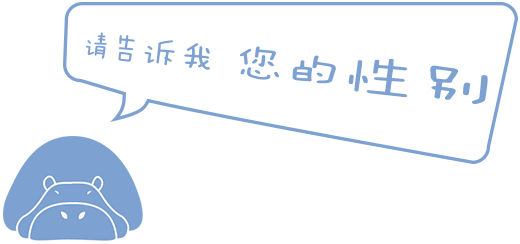
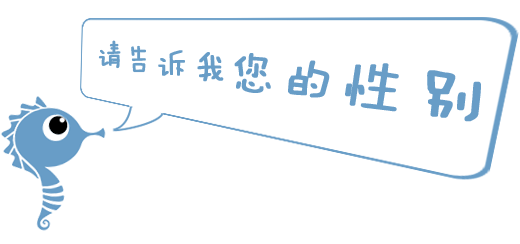
lcw
1、个性化定制 河马图标改为海马
2、个性化定制没有定制时改为自动跳转至定制页
3、vip挂号字体变大
4、报告查询保存密码
5、修复新版体检预约切换城市请求数据异常bug
6、首页个性化定制入口图片改为动态获取

Changed region(s): [[0.0, 0.0, 1.0, 1.0], [0.6769, 0.6311, 0.8, 0.6885]]

diff --git a/TiJian/TiJian/ViewControllers/HomeViewController.m b/TiJian/TiJian/ViewControllers/HomeViewController.m
@@ -50,6 +50,7 @@
     
     NSDictionary *_needChangeLocationDic;//需要更改的用户定位信息
     
+    UIImageView *_bannerCusImageView;//顶部个性化定制img view
 }
 
 @property(nonatomic,retain)UIView *healthView;//背景view
@@ -117,6 +118,9 @@
     //定位相关
     [self creatNavcLeftLabel];
     [self getLocalLocation];
+    
+    //获取动态banner图片
+    [self netWorkForHomeBanner];
     
 }
 
@@ -382,6 +386,28 @@
 }
 
 #pragma mark - 网络请求
+
+/**
+ *  获取首页banner信息
+ */
+- (void)netWorkForHomeBanner
+{
+    NSString *api = Get_cus_img;
+    
+    __weak typeof(self)weakSelf = self;
+    [[YJYRequstManager shareInstance]requestWithMethod:YJYRequstMethodGet api:api parameters:nil constructingBodyBlock:nil completion:^(NSDictionary *result) {
+        NSLog(@"success result %@",result);
+        
+        NSString *img_url = result[@"img_url"];
+        [LTools setObject:img_url forKey:HomePage_cus_img];//缓存imageurl
+        [_bannerCusImageView l_setImageWithURL:[NSURL URLWithString:img_url] placeholderImage:[weakSelf cacheBannerImage]];
+        
+    } failBlock:^(NSDictionary *result) {
+        
+        NSLog(@"fail result %@",result);
+        
+    }];
+}
 
 /**
  *  获取活动列表
@@ -812,25 +838,54 @@
 //    bgScroll.contentSize = CGSizeMake(DEVICE_WIDTH, view_health.bottom + 15);
 //}
 
+/**
+ *  获取默认的首页个性化定制banner
+ *
+ *  @return
+ */
+- (UIImage *)cacheBannerImage
+{
+    NSString *imgUrl = [LTools objectForKey:HomePage_cus_img];
+    UIImage *cacheImage;//
+    SDWebImageManager *manager = [SDWebImageManager sharedManager];
+    //存在换成图片
+    if ([manager cachedImageExistsForURL:[NSURL URLWithString:imgUrl]]) {
+        
+        NSString *key = [manager cacheKeyForURL:[NSURL URLWithString:imgUrl]];
+        cacheImage = [[SDImageCache sharedImageCache]imageFromDiskCacheForKey:key];
+    }else
+    {
+        cacheImage = [UIImage imageNamed:@"homepage_banner"];
+    }
+    return cacheImage;
+}
+
 - (void)prepareViewsVersionThree
 {
     UIView *bgScroll = [[UIView alloc]initWithFrame:CGRectMake(0, 0, DEVICE_WIDTH, DEVICE_HEIGHT - 49 - 64)];
+    bgScroll.backgroundColor = [UIColor whiteColor];
     [self.view addSubview:bgScroll];
     
     CGFloat width_sum = DEVICE_WIDTH;
-    UIImage *image = [UIImage imageNamed:@"homepage_banner"];
     
-    CGFloat radio = image.size.height / image.size.width;
+    UIImage *cacheImage = [self cacheBannerImage];//缓存图片
+    
+    CGFloat radio = cacheImage.size.height / cacheImage.size.width;
     
     //个性定制
-    UIButton *btn = [UIButton buttonWithType:UIButtonTypeCustom];
-    [btn setBackgroundImage:image forState:UIControlStateNormal];
-    [btn addTarget:self action:@selector(pushToPersonalCustom) forControlEvents:UIControlEventTouchUpInside];
+    UIImageView *btn = [[UIImageView alloc]init];
+    btn.userInteractionEnabled = YES;
+    btn.image = [self cacheBannerImage];
     [bgScroll addSubview:btn];
+    
     btn.backgroundColor = [UIColor whiteColor];
     CGFloat width = width_sum;
     CGFloat height = width *radio;
     btn.frame = CGRectMake(0, 0, width, height);
+    
+    [btn addTaget:self action:@selector(pushToPersonalCustom) tag:0];
+    
+    _bannerCusImageView = btn;
     
     //体检预约、体检商城入口
     

diff --git a/TiJian/TiJian/ViewControllers/挂号/VipRegisteringController.m b/TiJian/TiJian/ViewControllers/挂号/VipRegisteringController.m
@@ -207,6 +207,7 @@
     
     self.navigationItem.titleView = self.searchTF;
     
+    CGFloat titleWidth = 65;
     CGFloat width = DEVICE_WIDTH - 12 * 2;
     
     UIView *view = [[UIView alloc]initWithFrame:CGRectMake(12, 12, width , 432)];
@@ -214,12 +215,12 @@
     [view addCornerRadius:5.f];
     [self.scrollView addSubview:view];
     //就诊人
-    UILabel *titleLabel = [[UILabel alloc]initWithFrame:CGRectMake(12, 0, 55, 45) font:12 align:NSTextAlignmentLeft textColor:DEFAULT_TEXTCOLOR_TITLE title:@"就 诊 人 :"];
+    UILabel *titleLabel = [[UILabel alloc]initWithFrame:CGRectMake(12, 0, titleWidth, 45) font:14 align:NSTextAlignmentLeft textColor:DEFAULT_TEXTCOLOR_TITLE title:@"就 诊 人 :"];
     [view addSubview:titleLabel];
     
     NSString *name = self.userInfo.family_user_name;
     
-    UILabel *contentLabel = [[UILabel alloc]initWithFrame:CGRectMake(titleLabel.right + 12, 0, width - titleLabel.right - 12 - 50, 45) font:12 align:NSTextAlignmentLeft textColor:DEFAULT_TEXTCOLOR_TITLE title:name];
+    UILabel *contentLabel = [[UILabel alloc]initWithFrame:CGRectMake(titleLabel.right + 12, 0, width - titleLabel.right - 12 - 50, 45) font:14 align:NSTextAlignmentLeft textColor:DEFAULT_TEXTCOLOR_TITLE title:name];
     [view addSubview:contentLabel];
     _nameLabel = contentLabel;
     [contentLabel addTaget:self action:@selector(clickToSelectUserInfo:) tag:0];
@@ -237,7 +238,7 @@
     [view addSubview:line];
     
     //病情描述
-    titleLabel = [[UILabel alloc]initWithFrame:CGRectMake(12, line.bottom + 17, 55, 30) font:12 align:NSTextAlignmentLeft textColor:DEFAULT_TEXTCOLOR_TITLE title:@"病情描述:"];
+    titleLabel = [[UILabel alloc]initWithFrame:CGRectMake(12, line.bottom + 17, titleWidth, 30) font:14 align:NSTextAlignmentLeft textColor:DEFAULT_TEXTCOLOR_TITLE title:@"病情描述:"];
     [view addSubview:titleLabel];
     
     CGFloat t_width = width - titleLabel.right - 12 - 12;
@@ -254,7 +255,7 @@
     [textView setPlaceHolderColor:RGBCOLOR(196, 198, 205)];
     
     //添加图片
-    titleLabel = [[UILabel alloc]initWithFrame:CGRectMake(12, textView.bottom + 15, 55, 30) font:12 align:NSTextAlignmentLeft textColor:DEFAULT_TEXTCOLOR_TITLE title:@"添加图片:"];
+    titleLabel = [[UILabel alloc]initWithFrame:CGRectMake(12, textView.bottom + 15, titleWidth, 30) font:14 align:NSTextAlignmentLeft textColor:DEFAULT_TEXTCOLOR_TITLE title:@"添加图片:"];
     [view addSubview:titleLabel];
     
     //添加图片按钮
@@ -269,7 +270,7 @@
     NSArray *titles = @[@"医       院:",@"科       室:",@"备选医院:",@"预约时间:"];
     NSArray *placeHolders = @[@"医院(必填)",@"科室(必填)",@"请选择备选医院"];
     for (int i = 0; i < titles.count; i ++) {
-        titleLabel = [[UILabel alloc]initWithFrame:CGRectMake(12, top, 55, 45) font:12 align:NSTextAlignmentLeft textColor:DEFAULT_TEXTCOLOR_TITLE title:titles[i]];
+        titleLabel = [[UILabel alloc]initWithFrame:CGRectMake(12, top, titleWidth, 45) font:14 align:NSTextAlignmentLeft textColor:DEFAULT_TEXTCOLOR_TITLE title:titles[i]];
         [view addSubview:titleLabel];
         top = titleLabel.bottom+ 5;
         

diff --git a/TiJian/TiJian/ViewControllers/体检报告/QueryReportController.m b/TiJian/TiJian/ViewControllers/体检报告/QueryReportController.m
@@ -11,6 +11,7 @@
 #define Cache_brandName @"cache_brandname" //缓存品牌名
 #define Cache_brandId @"cache_brandid" //缓存品牌id
 #define Cache_account @"cache_account" //缓存账号
+#define Cache_account_password @"cache_account_password" //缓存账号对应密码
 #define Cache_brandId_newest @"cache_brandid_newest" //缓存品牌id最近的一个
 
 @interface QueryReportController ()<UITextFieldDelegate,UIPickerViewDelegate,UIPickerViewDataSource>
@@ -84,6 +85,11 @@
         {
             tf.returnKeyType = UIReturnKeyDone;
             tf.clearButtonMode = UITextFieldViewModeWhileEditing;
+            
+            NSString *accountPassword = [self getAccountPasswordWithBrandId:[self getNewestBrandId]];
+            if (![LTools isEmpty:accountPassword]) {
+                tf.text = accountPassword;
+            }
         }
         
         top = bgView.bottom;
@@ -144,6 +150,13 @@
     return account;
 }
 
+- (NSString *)getAccountPasswordWithBrandId:(NSString *)brandId
+{
+    NSString *key = [NSString stringWithFormat:@"%@_%@",Cache_account_password,brandId];
+    NSString *account = [LTools objectForKey:key];
+    return account;
+}
+
 //---------- set
 
 - (void)setBrandName:(NSString *)brandName
@@ -158,6 +171,13 @@
 {
     NSString *key = [NSString stringWithFormat:@"%@_%@",Cache_account,brandId];
     [LTools setObject:account forKey:key];
+}
+
+- (void)setAccountPassword:(NSString *)accountPassword
+       withBrandId:(NSString *)brandId
+{
+    NSString *key = [NSString stringWithFormat:@"%@_%@",Cache_account_password,brandId];
+    [LTools setObject:accountPassword forKey:key];
 }
 
 #pragma mark - 网络请求
@@ -222,6 +242,7 @@
     //本地缓存
     [LTools setObject:brandId forKey:Cache_brandId_newest];
     [self setAccount:accountNo withBrandId:brandId];
+    [self setAccountPassword:password withBrandId:brandId];//保存密码
     [self setBrandName:_brandName withBrandId:brandId];
     
     NSMutableDictionary *params = [NSMutableDictionary dictionary];
@@ -238,7 +259,6 @@
         [_loading hide:YES];
         
         if ([result[RESULT_CODE] intValue] == 0) {
-            
             NSString *url = result[@"url"];
             [MiddleTools pushToWebFromViewController:Weakself weburl:url title:@"体检报告" moreInfo:NO hiddenBottom:NO];
         }
@@ -246,6 +266,8 @@
         
     } failBlock:^(NSDictionary *result) {
         [_loading hide:YES];
+        int errocode = [result[RESULT_CODE]intValue];
+        DDLOG(@"result %@ %@",result[RESULT_CODE],result[RESULT_INFO]);
     }];
 }
 
@@ -298,6 +320,16 @@
     }else
     {
         [self textFieldWithTag:101].text = nil;
+    }
+    
+    NSString *account_password = [self getAccountPasswordWithBrandId:_brandId];
+    if (![LTools isEmpty:account_password]) {
+        
+        [self textFieldWithTag:102].text = account_password;
+        
+    }else
+    {
+        [self textFieldWithTag:102].text = nil;
     }
 }
 

diff --git a/TiJian/TiJian/ViewControllers/体检预约/AppointDirectController.m b/TiJian/TiJian/ViewControllers/体检预约/AppointDirectController.m
@@ -109,6 +109,12 @@
     NSMutableDictionary *params = [NSMutableDictionary dictionary];
     [params safeSetString:[GMAPI getCurrentProvinceId] forKey:@"province_id"];
     [params safeSetString:[GMAPI getCurrentCityId] forKey:@"city_id"];
+    
+    
+    NSLog(@"province id:%@ name:%@",[GMAPI getCurrentProvinceId],[GMAPI cityNameForId:[[GMAPI getCurrentProvinceId] intValue]]);
+    NSLog(@"cityid:%@ name:%@",[GMAPI getCurrentCityId],[GMAPI cityNameForId:[[GMAPI getCurrentCityId] intValue]]);
+
+    
 //    [params safeSetString:self.brand_id forKey:@"brand_id"];//品牌
     [params safeSetString:lon forKey:@"longitude"];
     [params safeSetString:lat forKey:@"latitude"];
@@ -122,7 +128,7 @@
     __weak typeof(_tableView)weakTable = _tableView;
     
     [[YJYRequstManager shareInstance]requestWithMethod:YJYRequstMethodGet api:api parameters:params constructingBodyBlock:nil completion:^(NSDictionary *result) {
-        NSLog(@"success result %@",result);
+//        NSLog(@"success result %@",result);
         
         NSArray *temp = [HospitalModel modelsFromArray:result[@"list"]];
         [weakTable reloadData:temp pageSize:10 noDataView:[self resultViewWithType:PageResultType_nodata title:nil msg:@"没有找到附近的分院!" btnTitle:nil selector:@selector(refreshData)]];
@@ -143,7 +149,8 @@
         
     if (![setmeal_list isKindOfClass:[NSDictionary class]]) {
         
-        [self.tableView finishReloadingData];
+        [self netWorkForCenterList];//请求分院
+
         return;
     }
     
@@ -165,7 +172,8 @@
         //没有待预约
         
     }
-    [self.tableView finishReloadingData];
+    
+    [self netWorkForCenterList];//请求分院
 }
 
 #pragma mark - 事件处理
@@ -306,7 +314,7 @@
     [GMAPI cache:dic ForKey:USERLocation];
     
     //请求分院列表
-    [self refreshData];
+    [self.tableView refreshNewData];
 }
 
 #pragma - mark RefreshDelegate <NSObject>
@@ -314,7 +322,6 @@
 - (void)loadNewDataForTableView:(RefreshTableView *)tableView
 {
     [self netWorkForListWithTable:tableView];
-    [self netWorkForCenterList];
 }
 - (void)loadMoreDataForTableView:(RefreshTableView *)tableView
 {

diff --git a/TiJian/TiJian/ViewControllers/个人定制/PhysicalTestResultController.m b/TiJian/TiJian/ViewControllers/个人定制/PhysicalTestResultController.m
@@ -232,6 +232,9 @@
         right = @"个性化定制";
         [self.rightBtn setTitle:@"个性化定制" forState:UIControlStateNormal];
         [self.rightBtn addTarget:self action:@selector(clickToTest:) forControlEvents:UIControlEventTouchUpInside];
+        
+        [self performSelector:@selector(clickToTest:) withObject:nil afterDelay:0.5];//自动跳转至测试页
+        
     }else
     {
         right = @"刷新";

diff --git a/TiJian/TiJian/Constants/ApiConstants.h b/TiJian/TiJian/Constants/ApiConstants.h
@@ -204,6 +204,9 @@
 //latest_activity_id：最新的活动id,用来判断是否需要自动弹出活动页
 #define Get_Show_activity @"/index.php?d=api&c=activity&m=show_activity"
 
+//获取首页banner信息
+#define Get_cus_img @"/index.php?d=api&c=customization&m=get_cus_img"
+
 /******************商品相关接口*******************/
 
 #pragma mark - 商品相关

diff --git a/TiJian/TiJian/Constants/AppConstants.h b/TiJian/TiJian/Constants/AppConstants.h
@@ -131,6 +131,7 @@
 #define USER_UPDATEHEADIMAGE_STATE @"updateHeadImage"//更新用户头像
 #define USER_NEWHEADIMAGE @"newHeadImage"//新头像
 
+#define HomePage_cus_img @"HomePage_cus_img" //首页个性化定制顶部banner
 
 //***************************** 三方平台appkey **********************************
 

diff --git a/TiJian/TiJian/HelpTools/Gutils/GMAPI.m b/TiJian/TiJian/HelpTools/Gutils/GMAPI.m
@@ -348,7 +348,7 @@
     NSDictionary *dic = [GMAPI cacheForKey:USERLocation];
     str = [dic stringValueForKey:@"city"];
     if ([LTools isEmpty:str] || [str intValue] == 0) {
-        str = @"1005";//海淀
+        str = @"0";
     }
     return str;
 }
